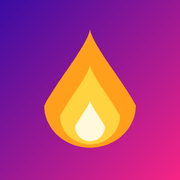
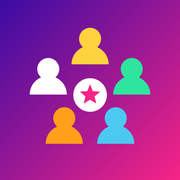
الاسم الجديد: لمّتنا 🎉 + أيقونة جديدة
Claude-Session: https://claude.ai/code/session_01EBFCtGuRGo1AvSk34qftqH

Changed region(s): [[0.1389, 0.1389, 0.8611, 0.8333]]

diff --git a/index.html b/index.html
@@ -6,12 +6,12 @@
 <meta name="theme-color" content="#7209b7">
 <meta name="apple-mobile-web-app-capable" content="yes"><meta name="mobile-web-app-capable" content="yes">
 <meta name="apple-mobile-web-app-status-bar-style" content="black-translucent">
-<meta name="apple-mobile-web-app-title" content="ولّعها">
-<meta name="description" content="ولّعها 🔥 — لعبة تحديات وأسئلة للشلة: أعلام، أفلام، كورة، أمثال، مين مثّل مع مين… والعب أونلاين مع صحابك">
-<meta property="og:title" content="ولّعها 🔥 — تحديات الشلة"><meta property="og:description" content="تعالى العب معايا! أسئلة وتحديات وكازينو وجوكرات 😈"><meta property="og:image" content="icon-512.png">
+<meta name="apple-mobile-web-app-title" content="لمّتنا">
+<meta name="description" content="لمّتنا 🎉 — ألعاب تحديات وأسئلة للشلة: أعلام، أفلام، كورة، أمثال، مين مثّل مع مين… والعب أونلاين مع صحابك">
+<meta property="og:title" content="لمّتنا 🎉 — ألعاب الشلة"><meta property="og:description" content="تعالى العب معايا! أسئلة وتحديات وكازينو وجوكرات 😈"><meta property="og:image" content="icon-512.png">
 <link rel="manifest" href="manifest.webmanifest"><link rel="icon" href="icon-192.png"><link rel="apple-touch-icon" href="icon-180.png">
 <script src="https://unpkg.com/mqtt@5.10.1/dist/mqtt.min.js"></script>
-<title>ولّعها 🔥 — تحديات الشلة</title>
+<title>لمّتنا 🎉 — ألعاب الشلة</title>
 <link href="https://fonts.googleapis.com/css2?family=Cairo:wght@400;600;800;900&display=swap" rel="stylesheet">
 <style>
 :root{--bg1:#2b0f4c;--bg2:#5a1a6e;--card:#ffffff14;--line:#ffffff26;--txt:#fff;--mut:#e6d6ffb0;--y:#ffd23f;--g:#2ee59d;--r:#ff5d73;--b:#4cc9f0;--o:#ff9f1c}
@@ -153,7 +153,7 @@ h1{text-shadow:0 4px 0 #0004,0 0 30px #ffd23f88;animation:wobble 3s ease-in-out 
 </style>
 </head>
 <body>
-<div id="splash" onclick="hideSplash()"><div class="rays"></div><div class="burst"><span style="--i:0;--x:-130px;--y:-170px;--r:-15deg">🕵</span><span style="--i:1;--x:130px;--y:-170px;--r:15deg">🧠</span><span style="--i:2;--x:-160px;--y:40px;--r:-20deg">🐍</span><span style="--i:3;--x:160px;--y:40px;--r:20deg">🔤</span><span style="--i:4;--x:-90px;--y:190px;--r:-10deg">🎬</span><span style="--i:5;--x:95px;--y:190px;--r:10deg">⚽</span><span style="--i:6;--x:0px;--y:-230px;--r:0deg">🎤</span><span style="--i:7;--x:0px;--y:240px;--r:0deg">🏆</span></div><div class="fire">🔥</div><div class="logo">ولّعها</div><div class="tag">ألعاب وتحديات الشلة 🎉</div><div class="bar"><i></i></div><div class="skip">دوس في أي حتة</div></div>
+<div id="splash" onclick="hideSplash()"><div class="rays"></div><div class="burst"><span style="--i:0;--x:-130px;--y:-170px;--r:-15deg">🕵</span><span style="--i:1;--x:130px;--y:-170px;--r:15deg">🧠</span><span style="--i:2;--x:-160px;--y:40px;--r:-20deg">🐍</span><span style="--i:3;--x:160px;--y:40px;--r:20deg">🔤</span><span style="--i:4;--x:-90px;--y:190px;--r:-10deg">🎬</span><span style="--i:5;--x:95px;--y:190px;--r:10deg">⚽</span><span style="--i:6;--x:0px;--y:-230px;--r:0deg">🎤</span><span style="--i:7;--x:0px;--y:240px;--r:0deg">🏆</span></div><div class="fire">🎉</div><div class="logo">لمّتنا</div><div class="tag">ألعاب وتحديات الشلة 🎉</div><div class="bar"><i></i></div><div class="skip">دوس في أي حتة</div></div>
 <div id="floaters"></div><div id="flash"></div><canvas id="fx"></canvas>
 <button class="sound" id="sndBtn" onclick="toggleSound()">🔊</button>
 <div id="app"></div>
@@ -417,11 +417,11 @@ async function genAI(k){
   const avoid=[...bank(k).map(x=>c.words?x[1]:x[0]),...(AIPOOL[k]||[]).map(x=>c.words?x[1]:x[0])].slice(-60);
   const words=!!c.words;
   const prompt=words
-    ?`إنت بتولّد محتوى للعبة "ولّعها" (لعبة تحديات بين صحاب مصريين).
+    ?`إنت بتولّد محتوى للعبة "لمّتنا" (لعبة تحديات بين صحاب مصريين).
 اكتب 15 كلمة جديدة لفئة: ${c.ai}.
 ماتكررش أي كلمة من دول: ${avoid.join('، ')}
 رد بـ JSON array of strings بس، مثال: ["مخدة","طرابيزة"]`
-    :`إنت بتولّد أسئلة للعبة "ولّعها" (لعبة تحديات وأسئلة بين صحاب مصريين).
+    :`إنت بتولّد أسئلة للعبة "لمّتنا" (لعبة تحديات وأسئلة بين صحاب مصريين).
 الفئة: ${c.t} — ${c.ai}
 اكتب 10 أسئلة جديدة متنوعة بالعامية المصرية، شوية سهلة وشوية متوسطة وشوية صعبة، وتكون ممتعة وتعمل جو.
 شروط مهمة:
@@ -826,7 +826,7 @@ function snDraw(){
 /* ================== الشاشة الرئيسية ================== */
 function home(){
   const online=!!roomNS;
-  return `<h1>ولّعها <span>🔥</span></h1><p class="sub">ألعاب وتحديات الشلة • العب أونلاين أو على موبايل واحد</p>
+  return `<h1>لمّتنا <span>🎉</span></h1><p class="sub">ألعاب وتحديات الشلة • العب أونلاين أو على موبايل واحد</p>
   ${S.invite?`<div class="banner">صاحبك مستنيك في أوضة <b style="direction:ltr;display:inline-block">${esc(S.invite)}</b> 🎉<br><span style="font-size:14px">اكتب اسمك ودوس «ادخل الأوضة»</span></div>`:''}
   <div class="card"><h2>اسمك إيه؟</h2><input id="nameInp" maxlength="16" placeholder="اكتب اسمك" value="${esc(myName)}"></div>
   <div class="card"><h2>🌐 العب أونلاين مع صحابك</h2><p class="note">أوضة بكود: تحدي الأسئلة 🧠 أو الجاسوس 🕵</p>
@@ -942,7 +942,7 @@ function lobby(){
   const list=ps.map(p=>`<li><span>${esc(p.presence.nm)}${p.presence.h===1?'<span class="tag">المضيف</span>':''}${p.sameTab?'<span class="tag me">إنت</span>':''}</span></li>`).join('');
   return `<button class="back" onclick="leaveRoom()">→ اخرج</button>
   <div class="card" style="text-align:center"><div class="note">كود الأوضة</div><div class="code">${esc(S.code)}</div>
-  <a class="btn wa" style="text-decoration:none" href="https://wa.me/?text=${encodeURIComponent('تعالى العب معايا ولّعها 🔥\nادخل من هنا: '+location.origin+location.pathname+'#r-'+S.code+'\nكود الأوضة: '+S.code)}" target="_blank">ابعت الدعوة على واتساب 💬</a>
+  <a class="btn wa" style="text-decoration:none" href="https://wa.me/?text=${encodeURIComponent('تعالى العب معايا على لمّتنا 🎉\nادخل من هنا: '+location.origin+location.pathname+'#r-'+S.code+'\nكود الأوضة: '+S.code)}" target="_blank">ابعت الدعوة على واتساب 💬</a>
   <button class="btn ghost" onclick="copyInvite()">انسخ اللينك 📋</button></div>
   <div class="card"><h2>اللي في الأوضة (${ps.length})</h2><ul class="players">${list||'<li>بيحمّل...</li>'}</ul></div>
   ${isHost?`<div class="card"><h2>هنلعب إيه؟</h2><div class="games" style="margin:0"><div class="game g1" style="${H.game==='quiz'?'outline:4px solid #fff':'opacity:.6'}" onclick="H.game='quiz';pushState();render()"><span class="ge">🧠</span><b>تحدي الأسئلة</b></div><div class="game g2" style="${H.game==='spy'?'outline:4px solid #fff':'opacity:.6'}" onclick="H.game='spy';pushState();render()"><span class="ge">🕵</span><b>الجاسوس</b></div></div></div>
@@ -951,7 +951,7 @@ function lobby(){
     ${S.err?`<p class="msg" style="color:var(--r)">${esc(S.err)}</p>`:''}<button class="btn g" onclick="spyHostStart()">يلا الجاسوس 🕵</button></div>`
     :`<div class="card"><h2>اختار الفئات</h2>${catPicker(H.cats,'toggleCat')}<h2 style="margin-top:16px">عدد الأسئلة</h2>${nPicker(H.n,'setN',[10,20,30,0])}
     <p class="note">كل رابع سؤال 🔥 دبل${H.n?' والسؤال الأخير 🎰 ×3':''}</p>
-    <button class="btn g" onclick="hostStart()" ${H.cats.length?'':'disabled'}>ولّعها! 🔥</button></div>${aiBox()}`}`
+    <button class="btn g" onclick="hostStart()" ${H.cats.length?'':'disabled'}>يلا بينا! 🔥</button></div>${aiBox()}`}`
   :`<div class="card"><p class="msg">${h?'مستنيين المضيف يبدأ اللعبة ⏳':'مستنيين المضيف يدخل...'}</p></div>`}`;
 }
 function scoreList(sc,showGain){
@@ -987,7 +987,7 @@ function lsetup(){
   <div class="row">${L.teams.length<4?`<button class="btn ghost" onclick="L.teams.push('فريق '+(L.teams.length+1));render()">+ فريق</button>`:''}${L.teams.length>2?`<button class="btn ghost" onclick="L.teams.pop();render()">− فريق</button>`:''}</div></div>
   <div class="card"><h2>الفئات</h2>${catPicker(L.cats,'lToggle')}<h2 style="margin-top:16px">أدوار لكل فريق</h2>${nPicker(L.rounds,'lRounds',[3,5,8,0])}
   <p class="note">كل فريق معاه جوكرين: 🔥 دبل و✂ شيل اتنين<br>🎰 سؤال الكازينو بيظهر فجأة: ×3 لو صح، و−100 لو غلط<br>🕵 لو فريق غلط، اللي بعده يقدر يسرق السؤال</p>
-  <button class="btn g" onclick="lStart()" ${L.cats.length?'':'disabled'}>ولّعها! 🔥</button></div>${aiBox()}`;
+  <button class="btn g" onclick="lStart()" ${L.cats.length?'':'disabled'}>يلا بينا! 🔥</button></div>${aiBox()}`;
 }
 function lToggle(k){L.cats=toggleIn(L.cats,k);render()}
 function lRounds(n){L.rounds=n;render()}

diff --git a/sw.js b/sw.js
@@ -1,4 +1,4 @@
-const C='wallaha-v2';
+const C='lammetna-v3';
 const ASSETS=['./','index.html','manifest.webmanifest','icon-192.png','icon-512.png','icon-180.png','https://unpkg.com/mqtt@5.10.1/dist/mqtt.min.js'];
 self.addEventListener('install',e=>{e.waitUntil(caches.open(C).then(c=>c.addAll(ASSETS).catch(()=>{})));self.skipWaiting()});
 self.addEventListener('activate',e=>{e.waitUntil(caches.keys().then(ks=>Promise.all(ks.filter(k=>k!==C).map(k=>caches.delete(k)))));self.clients.claim()});
